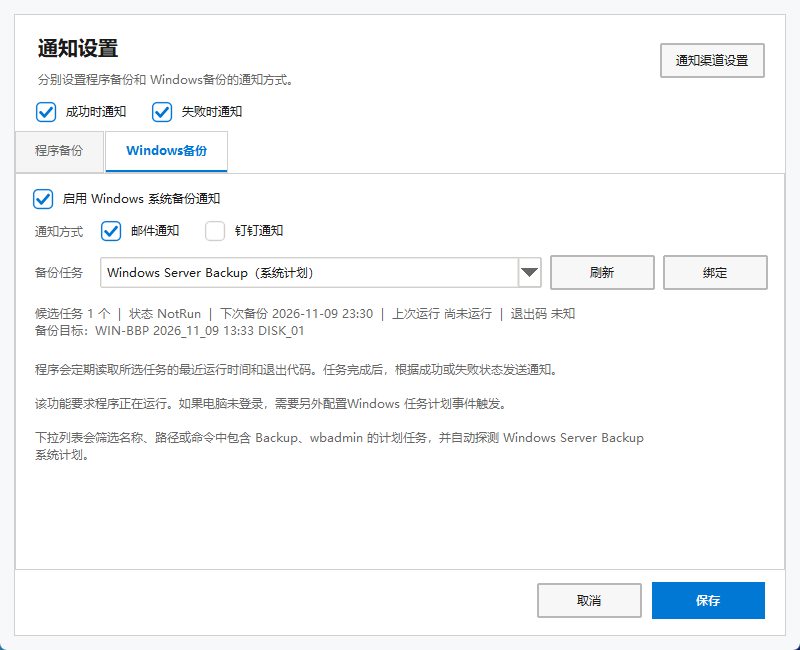
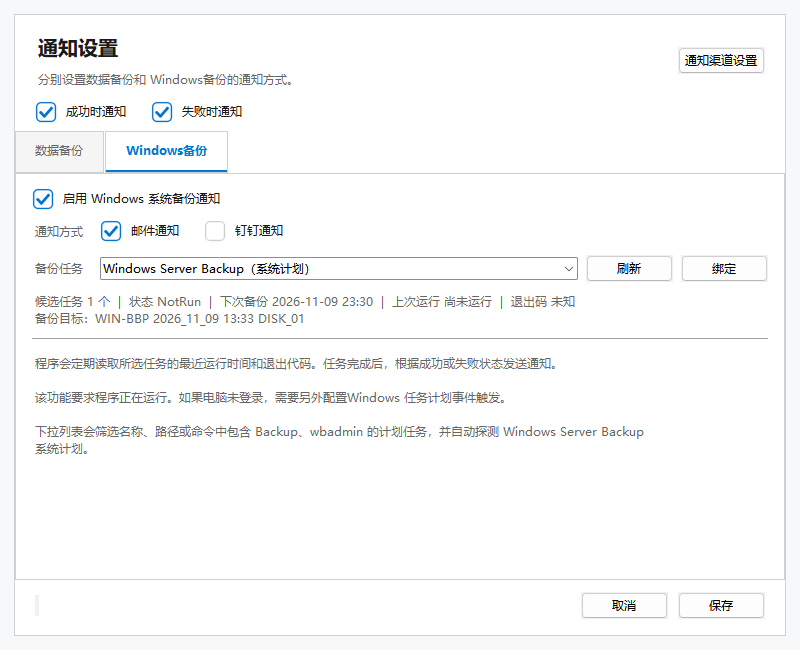
修复勾选框

diff --git a/tests/test_core.py b/tests/test_core.py
@@ -20,7 +20,13 @@ import app as app_module
 import backup_engine
 import config_store
 import notifications
-from app import BackupApp, backup_notification_message, should_send_notification
+from app import (
+    BackupApp,
+    backup_notification_message,
+    format_notification_time,
+    notification_subject,
+    should_send_notification,
+)
 from config_store import CONFIG_PATH, LOG_DIR, ConfigStore
 
 
@@ -563,11 +569,30 @@ class NotificationTests(unittest.TestCase):
             auto=True,
         )
         self.assertIn("备份成功", subject)
+        self.assertRegex(
+            subject,
+            r"^【数据备份】备份成功 - \d{4}-\d{2}-\d{2} "
+            r"\d{2}:\d{2}:\d{2}$",
+        )
         self.assertIn("备份状态：备份成功", body)
         self.assertIn("测试备份", body)
         self.assertIn("- 测试备份：备份成功", body)
         self.assertNotIn("example.zip", body)
         self.assertNotIn("2.0 KB", body)
+        self.assertEqual(
+            format_notification_time(
+                "2026-11-09T23:30:32.0000000+08:00"
+            ),
+            "2026-11-09 23:30:32",
+        )
+        self.assertEqual(
+            notification_subject(
+                "Windows备份",
+                "备份成功",
+                "2026-11-10 02:05:12",
+            ),
+            "【Windows备份】备份成功 - 2026-11-10 02:05:12",
+        )
         settings = notifications.notification_settings(
             {"notify_on_success": True}
         )
@@ -626,6 +651,86 @@ class ConfigurationAndSchedulingTests(unittest.TestCase):
         self.assertIsNone(
             app._job_name_validation_error(jobs, existing_id="job-1")
         )
+
+    def test_editing_job_does_not_change_checked_state(self) -> None:
+        app = BackupApp.__new__(BackupApp)
+        app.backup_jobs = [
+            {
+                "id": "job-1",
+                "name": "待编辑任务",
+                "job_type": "files",
+                "file_source": "D:/Source",
+                "output_dir": "E:/Backup",
+                "backup_time": "23:30",
+                "retention_days": 30,
+            },
+            {
+                "id": "job-2",
+                "name": "已勾选任务",
+                "job_type": "files",
+                "file_source": "D:/Other",
+                "output_dir": "E:/Backup",
+                "backup_time": "23:30",
+                "retention_days": 30,
+            },
+        ]
+        app.job_checked = {"job-2"}
+        refreshed: list[str | None] = []
+        app._refresh_job_tree = lambda selected_id=None: refreshed.append(
+            selected_id
+        )
+        app._store_backup_jobs(
+            [
+                {
+                    "name": "编辑后的任务",
+                    "job_type": "files",
+                    "file_source": "D:/Source",
+                    "output_dir": "E:/Backup",
+                    "backup_time": "23:30",
+                    "retention_days": 30,
+                }
+            ],
+            existing_id="job-1",
+        )
+
+        self.assertEqual(app.job_checked, {"job-2"})
+        self.assertEqual(refreshed, ["job-1"])
+
+    def test_adding_job_does_not_auto_check_it(self) -> None:
+        app = BackupApp.__new__(BackupApp)
+        app.backup_jobs = [
+            {
+                "id": "job-1",
+                "name": "已有任务",
+                "job_type": "files",
+                "file_source": "D:/Source",
+                "output_dir": "E:/Backup",
+                "backup_time": "23:30",
+                "retention_days": 30,
+            }
+        ]
+        app.job_checked = {"job-1"}
+        refreshed: list[str | None] = []
+        app._refresh_job_tree = lambda selected_id=None: refreshed.append(
+            selected_id
+        )
+        app._store_backup_jobs(
+            [
+                {
+                    "name": "新增任务",
+                    "job_type": "files",
+                    "file_source": "D:/New",
+                    "output_dir": "E:/Backup",
+                    "backup_time": "23:30",
+                    "retention_days": 30,
+                }
+            ]
+        )
+
+        self.assertEqual(app.job_checked, {"job-1"})
+        self.assertNotIn("job-1", refreshed)
+        self.assertEqual(len(refreshed), 1)
+        self.assertIsNotNone(refreshed[0])
 
     def test_legacy_config_is_migrated_to_independent_jobs(self) -> None:
         with tempfile.TemporaryDirectory(prefix="dba_config_") as temp:

diff --git a/src/app.py b/src/app.py
@@ -125,6 +125,25 @@ def should_send_notification(
     )
 
 
+def format_notification_time(value: object) -> str:
+    text = str(value or "").strip()
+    if not text:
+        return ""
+    try:
+        parsed = dt.datetime.fromisoformat(text)
+    except ValueError:
+        return text
+    return parsed.strftime("%Y-%m-%d %H:%M:%S")
+
+
+def notification_subject(
+    name: str,
+    outcome: str,
+    timestamp: str,
+) -> str:
+    return f"【{name}】{outcome} - {timestamp}"
+
+
 def backup_notification_message(
     records: list[tuple[str, object, str | None]],
     jobs_by_id: dict[str, dict],
@@ -142,9 +161,9 @@ def backup_notification_message(
         outcome = "部分备份失败"
     else:
         outcome = "备份失败"
-    now_text = dt.datetime.now().strftime("%Y-%m-%d %H:%M:%S")
+    now_text = format_notification_time(dt.datetime.now())
     host = socket.gethostname()
-    subject = f"【数据自动备份助手】{outcome} - {host} - {now_text}"
+    subject = notification_subject("数据备份", outcome, now_text)
     lines = [
         f"- 主机：{host}",
         f"- 执行方式：{'自动备份' if auto else '手动备份'}",
@@ -949,8 +968,6 @@ class BackupApp:
             if job.get("id")
         }
         self.job_checked.intersection_update(valid_ids)
-        if selected_id in valid_ids:
-            self.job_checked = {selected_id}
         for item in self.job_tree.get_children():
             self.job_tree.delete(item)
 
@@ -1286,7 +1303,6 @@ class BackupApp:
             )
             self.backup_jobs.append(job)
             new_ids.append(job["id"])
-        self.job_checked = set(new_ids)
         self._refresh_job_tree(new_ids[0] if new_ids else None)
 
     def remove_selected_jobs(self) -> None:
@@ -1753,14 +1769,22 @@ class BackupApp:
         outcome = "备份成功" if success else "备份失败"
         task_name = str(status.get("task_name", "Windows 系统备份"))
         task_path = str(status.get("task_path", ""))
-        next_run = str(status.get("next_run_time", "")) or "未知"
-        subject = f"【系统备份】{outcome} - {host}"
+        now_text = format_notification_time(dt.datetime.now())
+        last_run = (
+            format_notification_time(status.get("last_run_time", ""))
+            or "未知"
+        )
+        next_run = (
+            format_notification_time(status.get("next_run_time", ""))
+            or "未知"
+        )
+        subject = notification_subject("Windows备份", outcome, now_text)
         body_lines = [
             f"- 主机：{host}",
             f"- 备份任务：{task_name}",
             f"- 任务路径：{task_path}",
             f"- 执行结果：{outcome}",
-            f"- 最近运行：{status.get('last_run_time', '')}",
+            f"- 最近运行：{last_run}",
             f"- 下次运行：{next_run}",
             f"- 退出代码：{result_code or '未知'}",
         ]

diff --git a/src/notification_dialog.py b/src/notification_dialog.py
@@ -532,7 +532,7 @@ class NotificationSettingsDialog(_TabbedDialog):
         ).pack(anchor="w")
         tk.Label(
             title_box,
-            text="分别设置程序备份和 Windows备份的通知方式。",
+            text="分别设置数据备份和 Windows备份的通知方式。",
             bg=PANEL,
             fg=MUTED,
             font=("Microsoft YaHei UI", 9),
@@ -577,21 +577,21 @@ class NotificationSettingsDialog(_TabbedDialog):
             command=self.destroy,
         ).pack(side="right", padx=(0, 10))
 
-        self._create_tabs(outer, ("程序备份", "Windows备份"))
+        self._create_tabs(outer, ("数据备份", "Windows备份"))
         self._build_backup_tab(self._tab_pages[0])
         self._build_windows_tab(self._tab_pages[1])
 
     def _build_backup_tab(self, tab: tk.Frame) -> None:
         tk.Label(
             tab,
-            text="数据自动备份助手",
+            text="数据备份",
             bg=PANEL,
             fg=TEXT,
             font=("Microsoft YaHei UI", 11, "bold"),
         ).pack(anchor="w")
         tk.Label(
             tab,
-            text="当前程序完成数据库、SQLite 或文件备份后发送通知。",
+            text="当前数据备份任务完成后发送通知。",
             bg=PANEL,
             fg=MUTED,
             font=("Microsoft YaHei UI", 9),

diff --git a/README.md b/README.md
@@ -28,7 +28,7 @@
   <img src="docs/notification-settings.png" alt="通知设置" width="720">
 </p>
 
-<p align="center"><sub>通知设置：分别启用程序备份和 Windows备份通知</sub></p>
+<p align="center"><sub>通知设置：分别启用数据备份和 Windows备份通知</sub></p>
 
 <p align="center">
   <img src="docs/notification-channels.png" alt="通知渠道设置" width="720">
@@ -50,7 +50,7 @@
 - **开机自启**：登录 Windows 后可自动启动备份程序。
 - **邮件通知**：备份成功或失败后，通过可配置的 SMTP 邮箱发送结果。
 - **钉钉群通知**：支持钉钉群自定义机器人 Webhook、加签和手机号提醒。
-- **系统备份绑定**：可从下拉框绑定 Windows 计划中的备份任务并在完成后通知。
+- **Windows备份绑定**：可从下拉框绑定 Windows 计划中的备份任务并在完成后通知。
 - **密码保护**：MySQL 密码使用 Windows DPAPI 加密保存。
 - **备份校验**：备份使用临时文件写入，通过完整性检查后才生成正式 ZIP。
 - **文件容错**：文件备份可选择跳过无法读取的文件并记录结果。
@@ -70,8 +70,8 @@
 
 1. 点击“通知渠道设置”，分别在邮件和钉钉页填写发送参数。
 2. 切换到邮件或钉钉页后，点击“测试发送”分别检查当前渠道配置。
-3. 返回“通知设置”，在“程序备份”页选择本程序备份使用邮件或钉钉通知。
-4. 在“Windows备份”页绑定系统备份任务，并选择该系统备份使用邮件或钉钉通知。
+3. 返回“通知设置”，在“数据备份”页选择数据备份使用邮件或钉钉通知。
+4. 在“Windows备份”页绑定 Windows 备份任务，并选择该备份使用邮件或钉钉通知。
 5. 配置完成后点击“保存”。
 
 通知中的 SMTP 密码、钉钉 Webhook 和加签密钥均使用 Windows DPAPI 加密保存。
